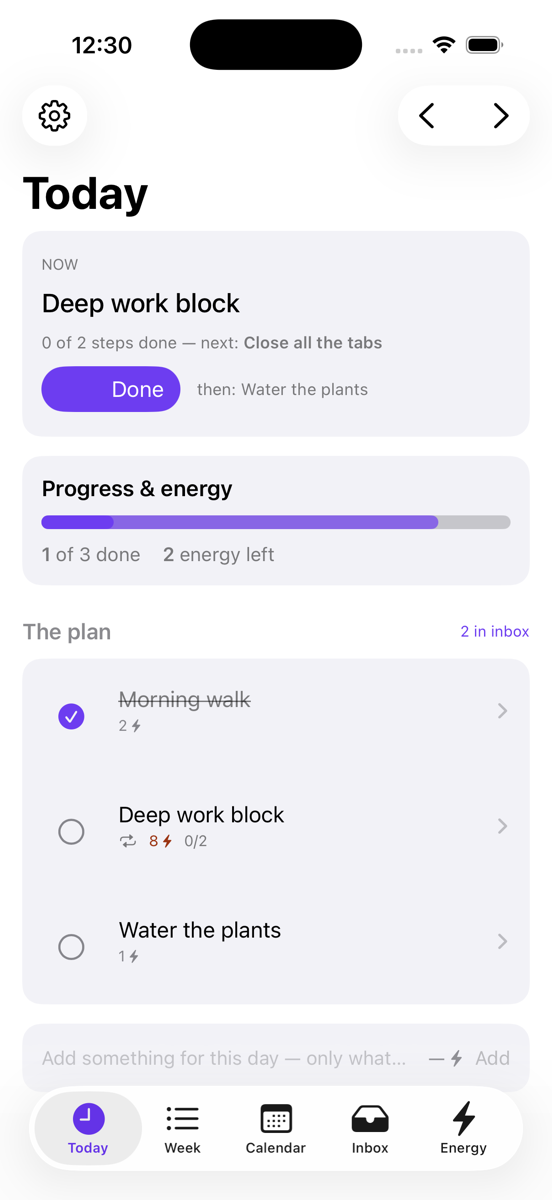
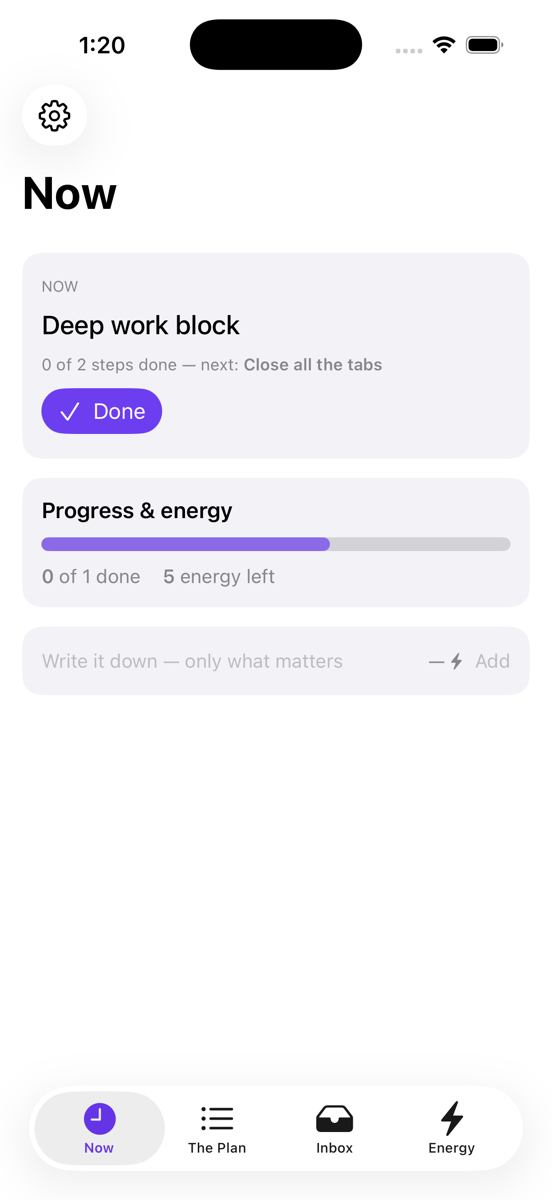
Hero shows the Now tab
The app reshaped to four tabs (Now, The Plan, Inbox, Energy); the hero
screenshot and its words follow.

diff --git a/neuroutine/index.html b/neuroutine/index.html
@@ -70,7 +70,7 @@
       <div class="media">
         <div class="phone">
           <img src="img/today.png" width="552" height="1200"
-               alt="NeuRoutine's Today view. A focus card reads: Now — Deep work block, 0 of 2 steps done, next: Close all the tabs, with one Done button. Below it, a progress and energy bar reads 1 of 3 done, 2 energy left, and the day's plan lists Morning walk (completed), Deep work block and Water the plants.">
+               alt="NeuRoutine's Now view. A focus card reads: Now — Deep work block, 0 of 2 steps done, next: Close all the tabs, with one Done button. Below it, a progress and energy bar, then the capture field. The tab bar reads Now, The Plan, Inbox, Energy.">
         </div>
       </div>
     </section>
